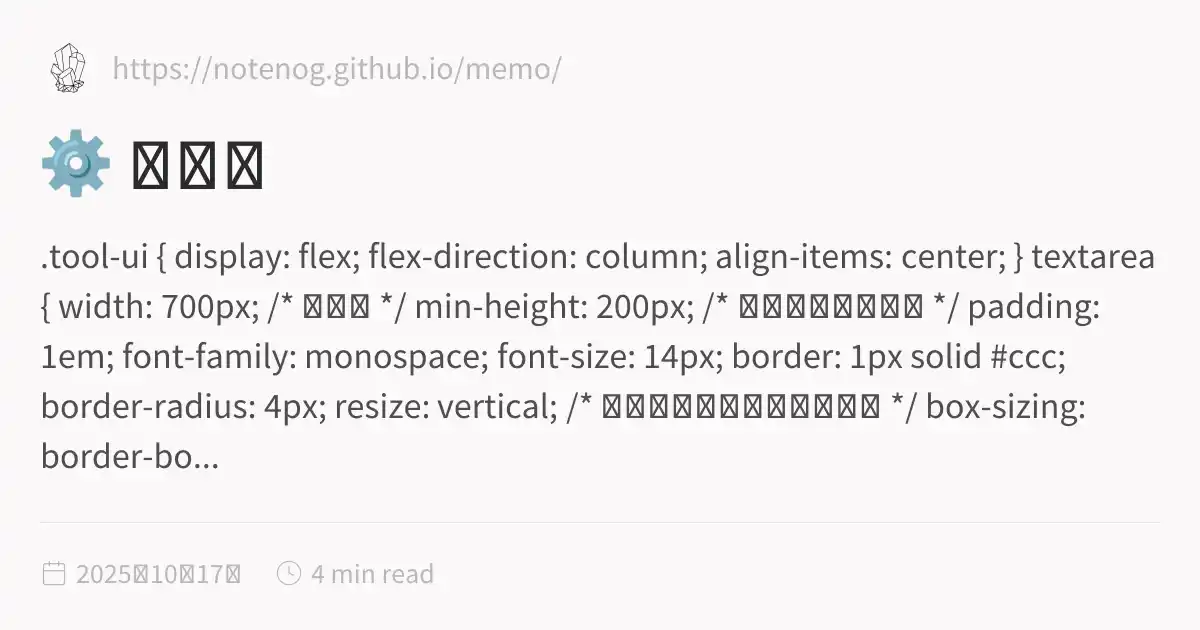
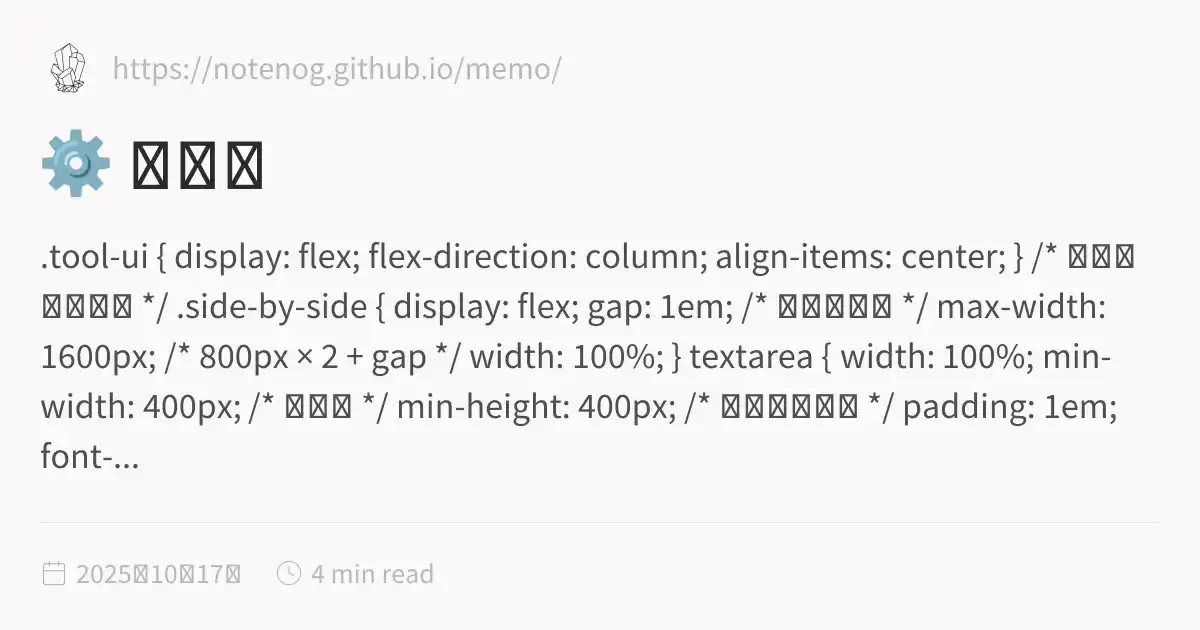
fix: Final push of clean assets with all content emitters disabled

diff --git a/docs/inSANe_old/index.html b/docs/inSANe_old/index.html
@@ -116,6 +116,6 @@ pre:hover > .expand-button {
   padding: 0 12px;
   font-size: 14px;
 }
[2 lines of base64/hex data omitted]
 </script><script type="module">function f(i,e){if(!i)return;function r(o){o.target===this&&(o.preventDefault(),o.stopPropagation(),e())}function t(o){o.key.startsWith("Esc")&&(o.preventDefault(),e())}i?.addEventListener("click",r),window.addCleanup(()=>i?.removeEventListener("click",r)),document.addEventListener("keydown",t),window.addCleanup(()=>document.removeEventListener("keydown",t))}function y(i){for(;i.firstChild;)i.removeChild(i.firstChild)}var h=class{constructor(e,r){this.container=e;this.content=r;this.setupEventListeners(),this.setupNavigationControls(),this.resetTransform()}isDragging=!1;startPan={x:0,y:0};currentPan={x:0,y:0};scale=1;MIN_SCALE=.5;MAX_SCALE=3;cleanups=[];setupEventListeners(){let e=this.onMouseDown.bind(this),r=this.onMouseMove.bind(this),t=this.onMouseUp.bind(this),o=this.resetTransform.bind(this);this.container.addEventListener("mousedown",e),document.addEventListener("mousemove",r),document.addEventListener("mouseup",t),window.addEventListener("resize",o),this.cleanups.push(()=>this.container.removeEventListener("mousedown",e),()=>document.removeEventListener("mousemove",r),()=>document.removeEventListener("mouseup",t),()=>window.removeEventListener("resize",o))}cleanup(){for(let e of this.cleanups)e()}setupNavigationControls(){let e=document.createElement("div");e.className="mermaid-controls";let r=this.createButton("+",()=>this.zoom(.1)),t=this.createButton("-",()=>this.zoom(-.1)),o=this.createButton("Reset",()=>this.resetTransform());e.appendChild(t),e.appendChild(o),e.appendChild(r),this.container.appendChild(e)}createButton(e,r){let t=document.createElement("button");return t.textContent=e,t.className="mermaid-control-button",t.addEventListener("click",r),window.addCleanup(()=>t.removeEventListener("click",r)),t}onMouseDown(e){e.button===0&&(this.isDragging=!0,this.startPan={x:e.clientX-this.currentPan.x,y:e.clientY-this.currentPan.y},this.container.style.cursor="grabbing")}onMouseMove(e){this.isDragging&&(e.preventDefault(),this.currentPan={x:e.clientX-this.startPan.x,y:e.clientY-this.startPan.y},this.updateTransform())}onMouseUp(){this.isDragging=!1,this.container.style.cursor="grab"}zoom(e){let r=Math.min(Math.max(this.scale+e,this.MIN_SCALE),this.MAX_SCALE),t=this.content.getBoundingClientRect(),o=t.width/2,n=t.height/2,c=r-this.scale;this.currentPan.x-=o*c,this.currentPan.y-=n*c,this.scale=r,this.updateTransform()}updateTransform(){this.content.style.transform=`translate(${this.currentPan.x}px, ${this.currentPan.y}px) scale(${this.scale})`}resetTransform(){this.scale=1;let e=this.content.querySelector("svg");this.currentPan={x:e.getBoundingClientRect().width/2,y:e.getBoundingClientRect().height/2},this.updateTransform()}},C=["--secondary","--tertiary","--gray","--light","--lightgray","--highlight","--dark","--darkgray","--codeFont"],E;document.addEventListener("nav",async()=>{let e=document.querySelector(".center").querySelectorAll("code.mermaid");if(e.length===0)return;E||=await import("https://cdnjs.cloudflare.com/ajax/libs/mermaid/11.4.0/mermaid.esm.min.mjs");let r=E.default,t=new WeakMap;for(let n of e)t.set(n,n.innerText);async function o(){for(let s of e){s.removeAttribute("data-processed");let a=t.get(s);a&&(s.innerHTML=a)}let n=C.reduce((s,a)=>(s[a]=window.getComputedStyle(document.documentElement).getPropertyValue(a),s),{}),c=document.documentElement.getAttribute("saved-theme")==="dark";r.initialize({startOnLoad:!1,securityLevel:"loose",theme:c?"dark":"base",themeVariables:{fontFamily:n["--codeFont"],primaryColor:n["--light"],primaryTextColor:n["--darkgray"],primaryBorderColor:n["--tertiary"],lineColor:n["--darkgray"],secondaryColor:n["--secondary"],tertiaryColor:n["--tertiary"],clusterBkg:n["--light"],edgeLabelBackground:n["--highlight"]}}),await r.run({nodes:e})}await o(),document.addEventListener("themechange",o),window.addCleanup(()=>document.removeEventListener("themechange",o));for(let n=0;n<e.length;n++){let v=function(){let g=l.querySelector("#mermaid-space"),m=l.querySelector(".mermaid-content");if(!m)return;y(m);let w=c.querySelector("svg").cloneNode(!0);m.appendChild(w),l.classList.add("active"),g.style.cursor="grab",u=new h(g,m)},M=function(){l.classList.remove("active"),u?.cleanup(),u=null},c=e[n],s=c.parentElement,a=s.querySelector(".clipboard-button"),d=s.querySelector(".expand-button"),p=window.getComputedStyle(a),L=a.offsetWidth+parseFloat(p.marginLeft||"0")+parseFloat(p.marginRight||"0");d.style.right=`calc(${L}px + 0.3rem)`,s.prepend(d);let l=s.querySelector("#mermaid-container");if(!l)return;let u=null;d.addEventListener("click",v),f(l,M),window.addCleanup(()=>{u?.cleanup(),d.removeEventListener("click",v)})}});
 </script><script src="https://cdn.jsdelivr.net/npm/katex@0.16.11/dist/contrib/copy-tex.min.js" type="application/javascript"></script><script src="../postscript.js" type="module"></script></html>

diff --git a/docs/inSANe_old/tool.html b/docs/inSANe_old/tool.html
@@ -1,5 +1,5 @@
 <!DOCTYPE html>
-<html lang="ja" dir="ltr"><head><title>⚙ ツール</title><meta charset="utf-8"/><link rel="preconnect" href="https://fonts.googleapis.com"/><link rel="preconnect" href="https://fonts.gstatic.com"/><link rel="stylesheet" href="https://fonts.googleapis.com/css2?family=Schibsted Grotesk:wght@400;700&amp;family=Source Sans Pro:ital,wght@0,400;0,600;1,400;1,600&amp;family=IBM Plex Mono:wght@400;600&amp;display=swap"/><link rel="preconnect" href="https://cdnjs.cloudflare.com" crossorigin="anonymous"/><meta name="viewport" content="width=device-width, initial-scale=1.0"/><meta name="og:site_name" content="MEMO"/><meta property="og:title" content="⚙ ツール"/><meta property="og:type" content="website"/><meta name="twitter:card" content="summary_large_image"/><meta name="twitter:title" content="⚙ ツール"/><meta name="twitter:description" content=".tool-ui { display: flex; flex-direction: column; align-items: center; } textarea { width: 700px; /* 固定幅 */ min-height: 200px; /* 初期の高さを指定 */ padding: 1em; font-family: monospace; font-size: 14px; border: 1px solid #ccc; border-radius: 4px; resize: vertical; /* 縦方向のリサイズのみ許可 */ box-sizing: border-bo..."/><meta property="og:description" content=".tool-ui { display: flex; flex-direction: column; align-items: center; } textarea { width: 700px; /* 固定幅 */ min-height: 200px; /* 初期の高さを指定 */ padding: 1em; font-family: monospace; font-size: 14px; border: 1px solid #ccc; border-radius: 4px; resize: vertical; /* 縦方向のリサイズのみ許可 */ box-sizing: border-bo..."/><meta property="og:image:alt" content=".tool-ui { display: flex; flex-direction: column; align-items: center; } textarea { width: 700px; /* 固定幅 */ min-height: 200px; /* 初期の高さを指定 */ padding: 1em; font-family: monospace; font-size: 14px; border: 1px solid #ccc; border-radius: 4px; resize: vertical; /* 縦方向のリサイズのみ許可 */ box-sizing: border-bo..."/><meta property="twitter:domain" content="https://notenog.github.io/memo/"/><meta property="og:url" content="https://https//notenog.github.io/memo/inSANe_old/tool"/><meta property="twitter:url" content="https://https//notenog.github.io/memo/inSANe_old/tool"/><link rel="icon" href="../static/icon.png"/><meta name="description" content=".tool-ui { display: flex; flex-direction: column; align-items: center; } textarea { width: 700px; /* 固定幅 */ min-height: 200px; /* 初期の高さを指定 */ padding: 1em; font-family: monospace; font-size: 14px; border: 1px solid #ccc; border-radius: 4px; resize: vertical; /* 縦方向のリサイズのみ許可 */ box-sizing: border-bo..."/><meta name="generator" content="Quartz"/><link href="../index.css" rel="stylesheet" type="text/css" spa-preserve/><style>.expand-button {
+<html lang="ja" dir="ltr"><head><title>⚙ ツール</title><meta charset="utf-8"/><link rel="preconnect" href="https://fonts.googleapis.com"/><link rel="preconnect" href="https://fonts.gstatic.com"/><link rel="stylesheet" href="https://fonts.googleapis.com/css2?family=Schibsted Grotesk:wght@400;700&amp;family=Source Sans Pro:ital,wght@0,400;0,600;1,400;1,600&amp;family=IBM Plex Mono:wght@400;600&amp;display=swap"/><link rel="preconnect" href="https://cdnjs.cloudflare.com" crossorigin="anonymous"/><meta name="viewport" content="width=device-width, initial-scale=1.0"/><meta name="og:site_name" content="MEMO"/><meta property="og:title" content="⚙ ツール"/><meta property="og:type" content="website"/><meta name="twitter:card" content="summary_large_image"/><meta name="twitter:title" content="⚙ ツール"/><meta name="twitter:description" content=".tool-ui { display: flex; flex-direction: column; align-items: center; } /* 横並びコンテナ */ .side-by-side { display: flex; gap: 1em; /* 左右の間隔 */ max-width: 1600px; /* 800px × 2 + gap */ width: 100%; } textarea { width: 100%; min-width: 400px; /* 最小幅 */ min-height: 400px; /* 高さを揃える */ padding: 1em; font-..."/><meta property="og:description" content=".tool-ui { display: flex; flex-direction: column; align-items: center; } /* 横並びコンテナ */ .side-by-side { display: flex; gap: 1em; /* 左右の間隔 */ max-width: 1600px; /* 800px × 2 + gap */ width: 100%; } textarea { width: 100%; min-width: 400px; /* 最小幅 */ min-height: 400px; /* 高さを揃える */ padding: 1em; font-..."/><meta property="og:image:alt" content=".tool-ui { display: flex; flex-direction: column; align-items: center; } /* 横並びコンテナ */ .side-by-side { display: flex; gap: 1em; /* 左右の間隔 */ max-width: 1600px; /* 800px × 2 + gap */ width: 100%; } textarea { width: 100%; min-width: 400px; /* 最小幅 */ min-height: 400px; /* 高さを揃える */ padding: 1em; font-..."/><meta property="twitter:domain" content="https://notenog.github.io/memo/"/><meta property="og:url" content="https://https//notenog.github.io/memo/inSANe_old/tool"/><meta property="twitter:url" content="https://https//notenog.github.io/memo/inSANe_old/tool"/><link rel="icon" href="../static/icon.png"/><meta name="description" content=".tool-ui { display: flex; flex-direction: column; align-items: center; } /* 横並びコンテナ */ .side-by-side { display: flex; gap: 1em; /* 左右の間隔 */ max-width: 1600px; /* 800px × 2 + gap */ width: 100%; } textarea { width: 100%; min-width: 400px; /* 最小幅 */ min-height: 400px; /* 高さを揃える */ padding: 1em; font-..."/><meta name="generator" content="Quartz"/><link href="../index.css" rel="stylesheet" type="text/css" spa-preserve/><style>.expand-button {
   position: absolute;
   display: flex;
   float: right;
@@ -123,21 +123,31 @@ pre:hover > .expand-button {
   align-items: center;
 }
 
+/* 横並びコンテナ */
+.side-by-side {
+  display: flex;
+  gap: 1em; /* 左右の間隔 */
+  max-width: 1600px; /* 800px × 2 + gap */
+  width: 100%;
+}
+
 textarea {
-  width: 700px; /* 固定幅 */
-  min-height: 200px; /* 初期の高さを指定 */
+  width: 100%;
+  min-width: 400px; /* 最小幅 */
+  min-height: 400px; /* 高さを揃える */
   padding: 1em;
   font-family: monospace;
   font-size: 14px;
   border: 1px solid #ccc;
   border-radius: 4px;
-  resize: vertical; /* 縦方向のリサイズのみ許可 */
-  box-sizing: border-box; /* paddingを含めた幅計算 */
+  resize: both; /* 縦横両方リサイズ可能 */
+  box-sizing: border-box;
 }
 
 .output-container {
-  width: 700px; /* 固定幅 */
-  margin: 0 auto;
+  width: 100%;
+  min-width: 400px;
+  margin: 0;
   position: relative;
   background: #fff;
   border: 1px solid #ccc;
@@ -181,10 +191,12 @@ button {
                   <div class="callout-title-inner"><p>Tip</p></div>
                   
                 </div>
-</blockquote>
+<div class="callout-content">
 <p><a href="https://character-sheets.appspot.com/" class="external">キャラクターシート倉庫<svg aria-hidden="true" class="external-icon" style="max-width:0.8em;max-height:0.8em;" viewBox="0 0 512 512"><path d="M320 0H288V64h32 82.7L201.4 265.4 178.7 288 224 333.3l22.6-22.6L448 109.3V192v32h64V192 32 0H480 320zM32 32H0V64 480v32H32 456h32V480 352 320H424v32 96H64V96h96 32V32H160 32z"></path></svg></a> さん上部にある「Tekeyフォーマット出力をクリック →
 全文をコピーして下部エリアにペースト →
 「変換」をクリックでTekeyのコマ用に整形された文章が表示されます。</p>
+</div>
+</blockquote>
 <blockquote class="callout warning" data-callout="warning">
 <div class="callout-title">
                   <div class="callout-icon"></div>
@@ -195,14 +207,14 @@ button {
 <p><br/><br/></p>
 
 <div class="tool-ui">
-<div class="tool-ui">
-  <textarea id="input" placeholder="ここにコピペ"></textarea>
-  <br/>
   <button onclick="convert()">変換</button>
-<br/>
-  <div class="output-container">
-    <button class="copy-button" onclick="copyOutput()">📋</button>
-    <pre id="output"></pre>
+  <div class="side-by-side">
+    <textarea id="input" placeholder="ここにコピペ"></textarea>
+<pre><code>&lt;div class=&quot;output-container&quot;>
+  &lt;button class=&quot;copy-button&quot; onclick=&quot;copyOutput()&quot;>📋&lt;/button>
+  &lt;pre id=&quot;output&quot;>&lt;/pre>
+&lt;/div>
+</code></pre>
   </div>
 </div>
 <p><br/><br/><br/></p>
@@ -305,6 +317,6 @@ function copyOutput() {
     console.error(err);
   });
 }
-</script></div></article><hr/><div class="page-footer"></div></div><div class="right sidebar"><div class="search"><button class="search-button"><svg role="img" xmlns="http://www.w3.org/2000/svg" viewBox="0 0 19.9 19.7"><title>Search</title><g class="search-path" fill="none"><path stroke-linecap="square" d="M18.5 18.3l-5.4-5.4"></path><circle cx="8" cy="8" r="7"></circle></g></svg><p>Search</p></button><div class="search-container"><div class="search-space"><input autocomplete="off" class="search-bar" name="search" type="text" aria-label="検索ワードを入力" placeholder="検索ワードを入力"/><div class="search-layout" data-preview="true"></div></div></div></div></div><footer class><p>Created with <a href="https://quartz.jzhao.xyz/">Quartz v4.5.2</a> © 2025</p><ul><li><a href="https://discordapp.com/users/318729033737043969">@disconog</a></li></ul></footer></div></div></body><script type="application/javascript">function n(){let t=this.parentElement;t.classList.toggle("is-collapsed");let e=t.getElementsByClassName("callout-content")[0];if(!e)return;let l=t.classList.contains("is-collapsed");e.style.gridTemplateRows=l?"0fr":"1fr"}function c(){let t=document.getElementsByClassName("callout is-collapsible");for(let e of t){let l=e.getElementsByClassName("callout-title")[0],s=e.getElementsByClassName("callout-content")[0];if(!l||!s)continue;l.addEventListener("click",n),window.addCleanup(()=>l.removeEventListener("click",n));let o=e.classList.contains("is-collapsed");s.style.gridTemplateRows=o?"0fr":"1fr"}}document.addEventListener("nav",c);
+</script></article><hr/><div class="page-footer"></div></div><div class="right sidebar"><div class="search"><button class="search-button"><svg role="img" xmlns="http://www.w3.org/2000/svg" viewBox="0 0 19.9 19.7"><title>Search</title><g class="search-path" fill="none"><path stroke-linecap="square" d="M18.5 18.3l-5.4-5.4"></path><circle cx="8" cy="8" r="7"></circle></g></svg><p>Search</p></button><div class="search-container"><div class="search-space"><input autocomplete="off" class="search-bar" name="search" type="text" aria-label="検索ワードを入力" placeholder="検索ワードを入力"/><div class="search-layout" data-preview="true"></div></div></div></div></div><footer class><p>Created with <a href="https://quartz.jzhao.xyz/">Quartz v4.5.2</a> © 2025</p><ul><li><a href="https://discordapp.com/users/318729033737043969">@disconog</a></li></ul></footer></div></div></body><script type="application/javascript">function n(){let t=this.parentElement;t.classList.toggle("is-collapsed");let e=t.getElementsByClassName("callout-content")[0];if(!e)return;let l=t.classList.contains("is-collapsed");e.style.gridTemplateRows=l?"0fr":"1fr"}function c(){let t=document.getElementsByClassName("callout is-collapsible");for(let e of t){let l=e.getElementsByClassName("callout-title")[0],s=e.getElementsByClassName("callout-content")[0];if(!l||!s)continue;l.addEventListener("click",n),window.addCleanup(()=>l.removeEventListener("click",n));let o=e.classList.contains("is-collapsed");s.style.gridTemplateRows=o?"0fr":"1fr"}}document.addEventListener("nav",c);
 </script><script type="module">function f(i,e){if(!i)return;function r(o){o.target===this&&(o.preventDefault(),o.stopPropagation(),e())}function t(o){o.key.startsWith("Esc")&&(o.preventDefault(),e())}i?.addEventListener("click",r),window.addCleanup(()=>i?.removeEventListener("click",r)),document.addEventListener("keydown",t),window.addCleanup(()=>document.removeEventListener("keydown",t))}function y(i){for(;i.firstChild;)i.removeChild(i.firstChild)}var h=class{constructor(e,r){this.container=e;this.content=r;this.setupEventListeners(),this.setupNavigationControls(),this.resetTransform()}isDragging=!1;startPan={x:0,y:0};currentPan={x:0,y:0};scale=1;MIN_SCALE=.5;MAX_SCALE=3;cleanups=[];setupEventListeners(){let e=this.onMouseDown.bind(this),r=this.onMouseMove.bind(this),t=this.onMouseUp.bind(this),o=this.resetTransform.bind(this);this.container.addEventListener("mousedown",e),document.addEventListener("mousemove",r),document.addEventListener("mouseup",t),window.addEventListener("resize",o),this.cleanups.push(()=>this.container.removeEventListener("mousedown",e),()=>document.removeEventListener("mousemove",r),()=>document.removeEventListener("mouseup",t),()=>window.removeEventListener("resize",o))}cleanup(){for(let e of this.cleanups)e()}setupNavigationControls(){let e=document.createElement("div");e.className="mermaid-controls";let r=this.createButton("+",()=>this.zoom(.1)),t=this.createButton("-",()=>this.zoom(-.1)),o=this.createButton("Reset",()=>this.resetTransform());e.appendChild(t),e.appendChild(o),e.appendChild(r),this.container.appendChild(e)}createButton(e,r){let t=document.createElement("button");return t.textContent=e,t.className="mermaid-control-button",t.addEventListener("click",r),window.addCleanup(()=>t.removeEventListener("click",r)),t}onMouseDown(e){e.button===0&&(this.isDragging=!0,this.startPan={x:e.clientX-this.currentPan.x,y:e.clientY-this.currentPan.y},this.container.style.cursor="grabbing")}onMouseMove(e){this.isDragging&&(e.preventDefault(),this.currentPan={x:e.clientX-this.startPan.x,y:e.clientY-this.startPan.y},this.updateTransform())}onMouseUp(){this.isDragging=!1,this.container.style.cursor="grab"}zoom(e){let r=Math.min(Math.max(this.scale+e,this.MIN_SCALE),this.MAX_SCALE),t=this.content.getBoundingClientRect(),o=t.width/2,n=t.height/2,c=r-this.scale;this.currentPan.x-=o*c,this.currentPan.y-=n*c,this.scale=r,this.updateTransform()}updateTransform(){this.content.style.transform=`translate(${this.currentPan.x}px, ${this.currentPan.y}px) scale(${this.scale})`}resetTransform(){this.scale=1;let e=this.content.querySelector("svg");this.currentPan={x:e.getBoundingClientRect().width/2,y:e.getBoundingClientRect().height/2},this.updateTransform()}},C=["--secondary","--tertiary","--gray","--light","--lightgray","--highlight","--dark","--darkgray","--codeFont"],E;document.addEventListener("nav",async()=>{let e=document.querySelector(".center").querySelectorAll("code.mermaid");if(e.length===0)return;E||=await import("https://cdnjs.cloudflare.com/ajax/libs/mermaid/11.4.0/mermaid.esm.min.mjs");let r=E.default,t=new WeakMap;for(let n of e)t.set(n,n.innerText);async function o(){for(let s of e){s.removeAttribute("data-processed");let a=t.get(s);a&&(s.innerHTML=a)}let n=C.reduce((s,a)=>(s[a]=window.getComputedStyle(document.documentElement).getPropertyValue(a),s),{}),c=document.documentElement.getAttribute("saved-theme")==="dark";r.initialize({startOnLoad:!1,securityLevel:"loose",theme:c?"dark":"base",themeVariables:{fontFamily:n["--codeFont"],primaryColor:n["--light"],primaryTextColor:n["--darkgray"],primaryBorderColor:n["--tertiary"],lineColor:n["--darkgray"],secondaryColor:n["--secondary"],tertiaryColor:n["--tertiary"],clusterBkg:n["--light"],edgeLabelBackground:n["--highlight"]}}),await r.run({nodes:e})}await o(),document.addEventListener("themechange",o),window.addCleanup(()=>document.removeEventListener("themechange",o));for(let n=0;n<e.length;n++){let v=function(){let g=l.querySelector("#mermaid-space"),m=l.querySelector(".mermaid-content");if(!m)return;y(m);let w=c.querySelector("svg").cloneNode(!0);m.appendChild(w),l.classList.add("active"),g.style.cursor="grab",u=new h(g,m)},M=function(){l.classList.remove("active"),u?.cleanup(),u=null},c=e[n],s=c.parentElement,a=s.querySelector(".clipboard-button"),d=s.querySelector(".expand-button"),p=window.getComputedStyle(a),L=a.offsetWidth+parseFloat(p.marginLeft||"0")+parseFloat(p.marginRight||"0");d.style.right=`calc(${L}px + 0.3rem)`,s.prepend(d);let l=s.querySelector("#mermaid-container");if(!l)return;let u=null;d.addEventListener("click",v),f(l,M),window.addCleanup(()=>{u?.cleanup(),d.removeEventListener("click",v)})}});
 </script><script src="https://cdn.jsdelivr.net/npm/katex@0.16.11/dist/contrib/copy-tex.min.js" type="application/javascript"></script><script src="../postscript.js" type="module"></script></html>

diff --git a/content/inSANe_old/tool.md b/content/inSANe_old/tool.md
@@ -9,21 +9,31 @@ draft: false
   align-items: center;
 }
 
+/* 横並びコンテナ */
+.side-by-side {
+  display: flex;
+  gap: 1em; /* 左右の間隔 */
+  max-width: 1600px; /* 800px × 2 + gap */
+  width: 100%;
+}
+
 textarea {
-  width: 700px; /* 固定幅 */
-  min-height: 200px; /* 初期の高さを指定 */
+  width: 100%;
+  min-width: 400px; /* 最小幅 */
+  min-height: 400px; /* 高さを揃える */
   padding: 1em;
   font-family: monospace;
   font-size: 14px;
   border: 1px solid #ccc;
   border-radius: 4px;
-  resize: vertical; /* 縦方向のリサイズのみ許可 */
-  box-sizing: border-box; /* paddingを含めた幅計算 */
+  resize: both; /* 縦横両方リサイズ可能 */
+  box-sizing: border-box;
 }
 
 .output-container {
-  width: 700px; /* 固定幅 */
-  margin: 0 auto;
+  width: 100%;
+  min-width: 400px;
+  margin: 0;
   position: relative;
   background: #fff;
   border: 1px solid #ccc;
@@ -65,9 +75,9 @@ button {
 ___
 
 > [!tip]
-[キャラクターシート倉庫](https://character-sheets.appspot.com/) さん上部にある「Tekeyフォーマット出力をクリック →
-全文をコピーして下部エリアにペースト →
-「変換」をクリックでTekeyのコマ用に整形された文章が表示されます。
+> [キャラクターシート倉庫](https://character-sheets.appspot.com/) さん上部にある「Tekeyフォーマット出力をクリック →
+> 全文をコピーして下部エリアにペースト →
+> 「変換」をクリックでTekeyのコマ用に整形された文章が表示されます。
   
   
 > [!warning]  インセインにしか対応していません<br>また、ｇのセッション周りのみでの使用を想定してます
@@ -76,16 +86,15 @@ ___
 
 <!-- ここからHTML UI部分 -->
 <div class="tool-ui">
-<div class="tool-ui">
-  <textarea id="input" placeholder="ここにコピペ"></textarea>
-  <br>
   <button onclick="convert()">変換</button>
-
-<br>
-
-  <div class="output-container">
-    <button class="copy-button" onclick="copyOutput()">📋</button>
-    <pre id="output"></pre>
+  
+  <div class="side-by-side">
+    <textarea id="input" placeholder="ここにコピペ"></textarea>
+    
+    <div class="output-container">
+      <button class="copy-button" onclick="copyOutput()">📋</button>
+      <pre id="output"></pre>
+    </div>
   </div>
 </div>
 
